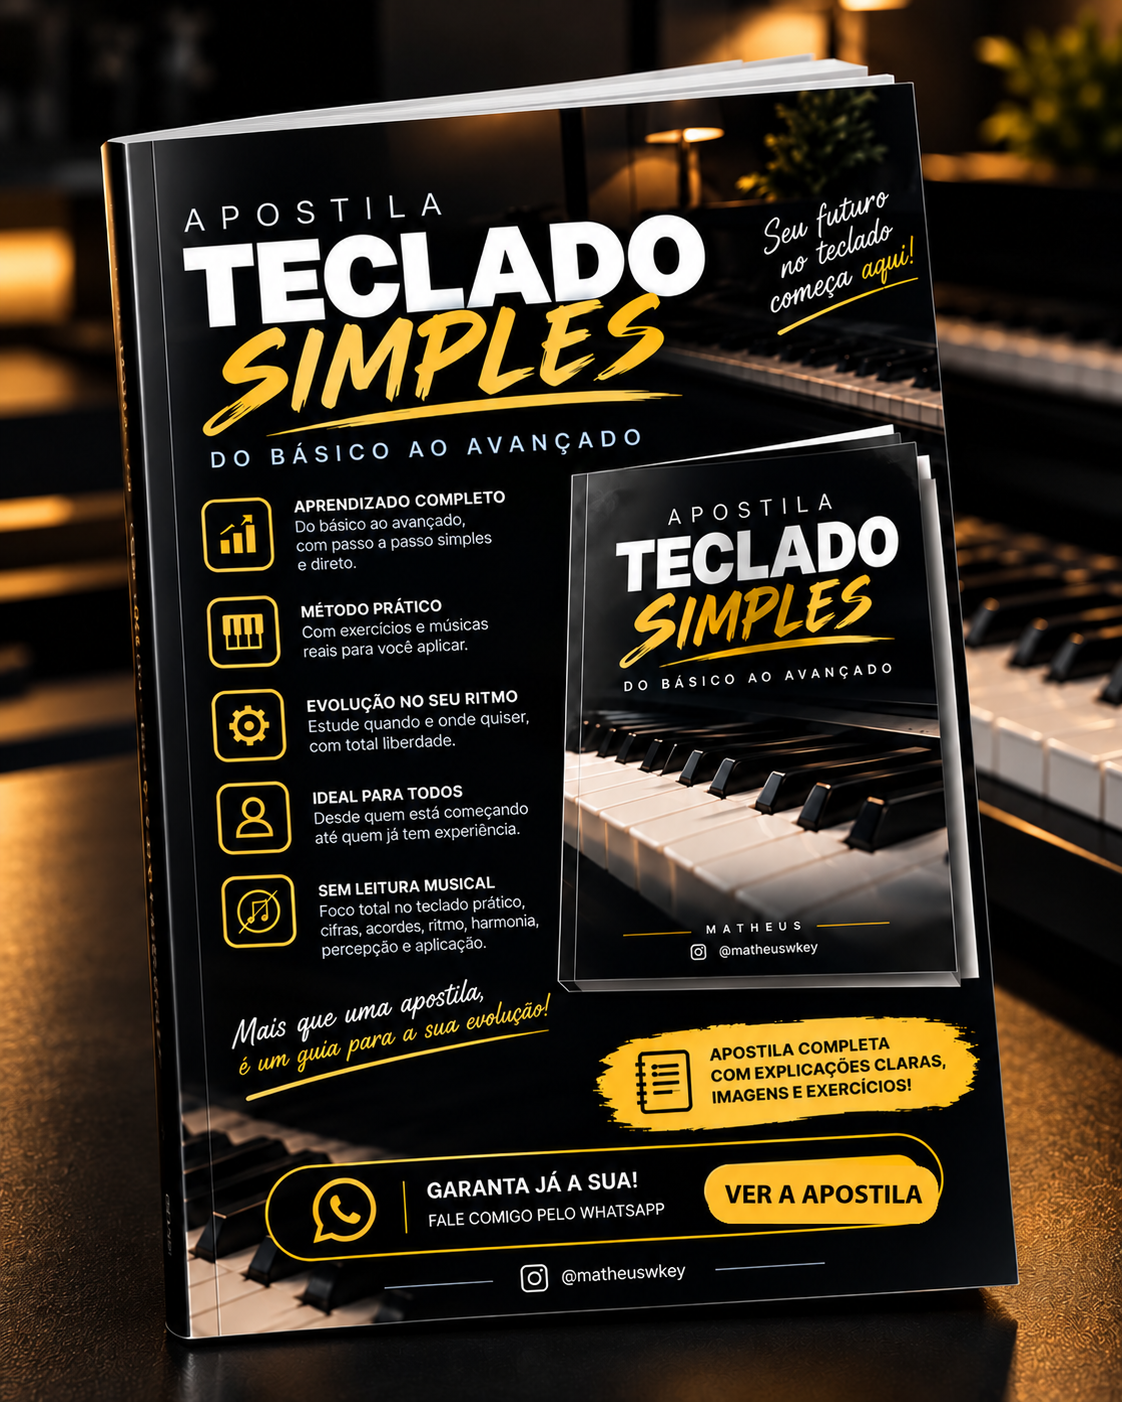
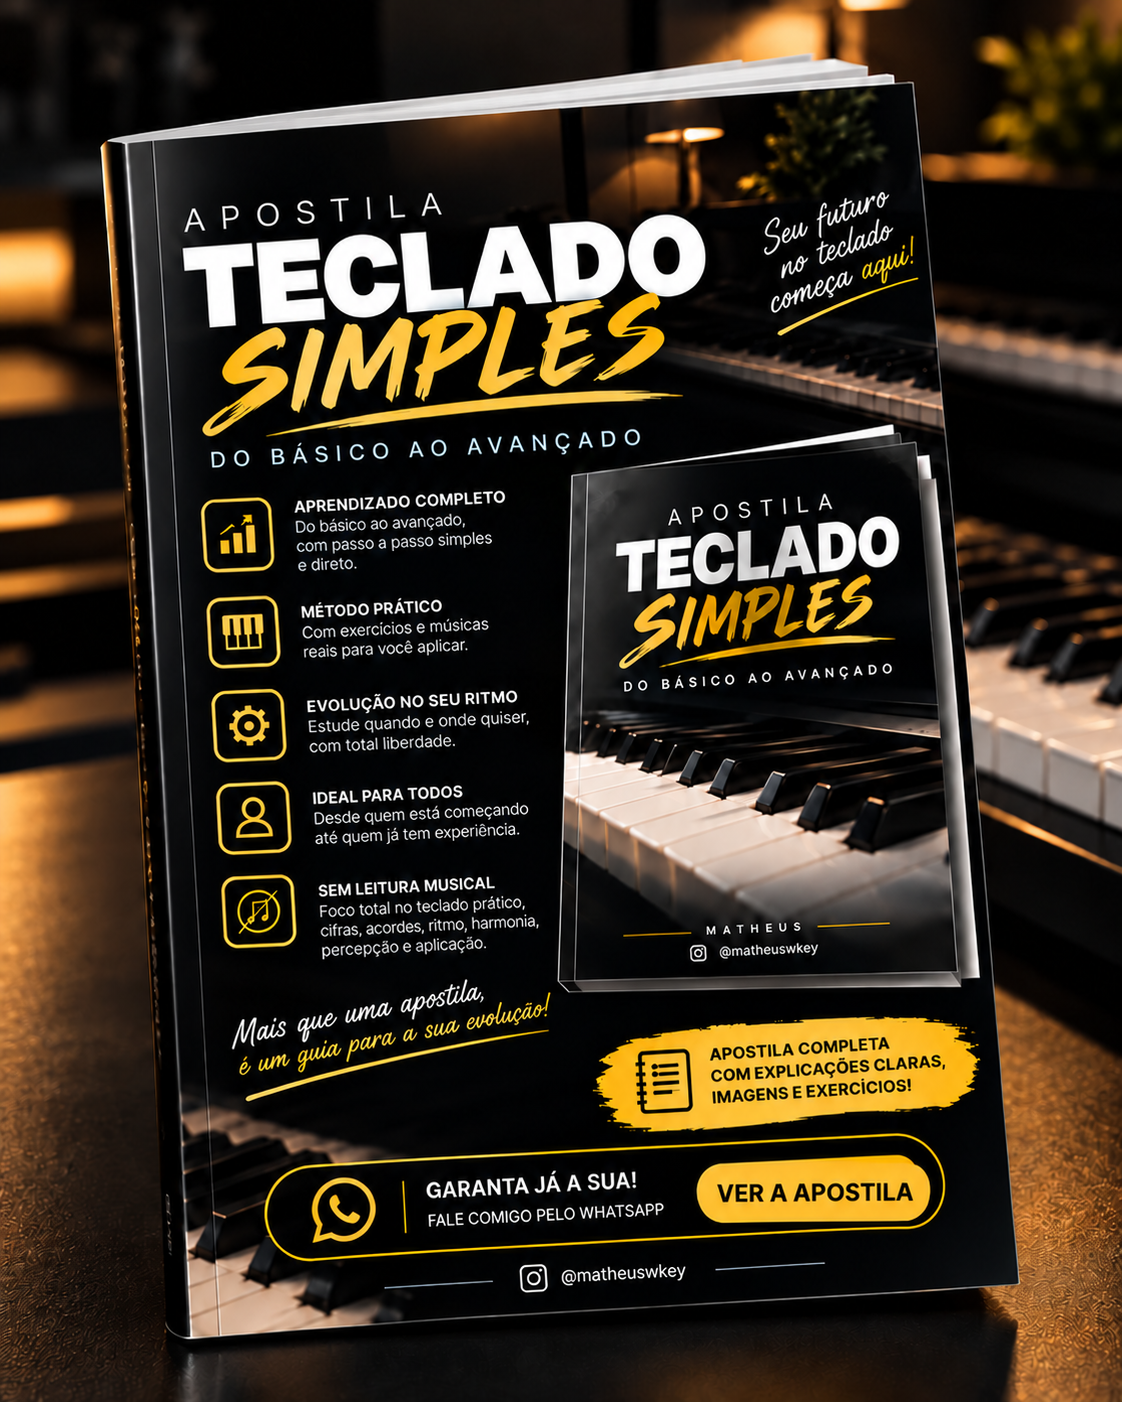
Show apostille tab on mobile and align mockup button

diff --git a/index.html b/index.html
@@ -10,7 +10,7 @@
 :root{color-scheme:dark;--bg:#111313;--surface:#1a1d1c;--text:#f5f4ef;--muted:#b8bdb7;--accent:#efb58a;--line:#343936;--radius:20px}
 *{box-sizing:border-box}html{scroll-behavior:smooth;scroll-padding-top:92px}body{margin:0;background:var(--bg);color:var(--text);font-family:system-ui,-apple-system,BlinkMacSystemFont,"Segoe UI",sans-serif;line-height:1.6;-webkit-font-smoothing:antialiased}a{color:inherit;text-decoration:none}button{font:inherit}img{display:block;max-width:100%}h1,h2,h3,p{margin:0}h1,h2,h3{line-height:1.12}a:focus-visible,summary:focus-visible,button:focus-visible{outline:3px solid var(--accent);outline-offset:5px}.wrap{width:min(100% - 40px,1120px);margin-inline:auto}.skip{position:fixed;top:-100px;left:20px;padding:12px;background:var(--accent);color:#111;z-index:200}.skip:focus{top:10px}.header{position:sticky;top:0;z-index:30;background:rgba(17,19,19,.95);border-bottom:1px solid var(--line);backdrop-filter:blur(14px)}.nav{min-height:74px;display:flex;align-items:center;justify-content:space-between;gap:16px}.brand{font-weight:800;letter-spacing:-.04em;font-size:21px;line-height:1.1}.brand span{color:var(--accent)}.brand small{display:block;font-size:10px;letter-spacing:.22em;font-weight:500;margin-top:6px;color:var(--muted)}.navlinks{display:flex;align-items:center;gap:28px;font-size:14px}.navlinks>a:not(.nav-cta){color:var(--muted)}.nav-cta{border:1px solid #7e6452;border-radius:100px;padding:10px 18px;min-height:44px;display:inline-flex;align-items:center}.hero{padding:38px 0 54px}.hero-grid{display:grid;grid-template-columns:1.1fr 1fr;gap:64px;align-items:center}.eyebrow{color:var(--accent);font-size:12px;font-weight:700;letter-spacing:.15em;text-transform:uppercase}.availability{display:inline-flex;align-items:center;gap:8px;font-size:12px;border:1px solid var(--line);border-radius:100px;padding:7px 12px;color:var(--muted);margin-bottom:24px}.availability svg{width:15px;height:15px;color:var(--accent)}h1{font-size:clamp(42px,5.7vw,72px);letter-spacing:-.06em;font-weight:650}h1 em{color:var(--accent);font-family:Georgia,serif;font-weight:400;letter-spacing:-.055em}.lead{font-size:17px;color:var(--muted);margin:24px 0;max-width:470px}.actions{display:flex;flex-wrap:wrap;gap:12px}.btn{display:inline-flex;align-items:center;justify-content:center;gap:10px;min-height:52px;padding:13px 22px;border-radius:12px;background:var(--accent);color:#21170f;font-size:15px;font-weight:700;text-align:center;border:1px solid transparent;transition:background .2s,transform .2s}.btn svg{width:20px;height:20px;flex:none}.btn:hover{background:#f7c9a5;transform:translateY(-2px)}.btn.secondary{background:transparent;border-color:var(--line);color:var(--text)}.btn.secondary:hover{background:var(--surface)}.hero-note{font-size:12px;color:var(--muted);margin-top:18px}.portrait{position:relative;border-radius:24px;overflow:hidden;background:#080909;aspect-ratio:4/4.7;border:1px solid var(--line)}.portrait img{width:100%;height:100%;object-fit:cover;object-position:center top}.portrait:after{content:"";position:absolute;inset:50% 0 0;background:linear-gradient(transparent,rgba(0,0,0,.96))}.portrait-caption{position:absolute;z-index:1;bottom:25px;left:25px;right:25px}.portrait-caption strong{display:block;font-size:25px;letter-spacing:-.04em}.portrait-caption span{font-size:13px;color:#c5c7c2}.portrait-tag{position:absolute;top:18px;right:18px;background:#161817d9;border:1px solid #ffffff26;border-radius:100px;padding:6px 12px;font-size:11px}.strip{border-block:1px solid var(--line);background:#181b19}.strip-inner{display:flex;justify-content:space-between;gap:20px;padding-block:20px;font-size:13px;color:var(--muted)}.strip strong{color:var(--text);font-weight:500}.section{padding:88px 0}.section-heading{display:grid;grid-template-columns:1fr .8fr;gap:70px;align-items:end;margin-bottom:32px}h2{font-size:clamp(32px,4.1vw,48px);letter-spacing:-.05em;font-weight:600;margin-top:13px}h2 em{font-family:Georgia,serif;color:var(--accent);font-weight:400}.section-heading p{color:var(--muted);font-size:16px}.method-grid{display:grid;grid-template-columns:repeat(3,1fr);gap:14px}.method-card{padding:25px;border:1px solid var(--line);border-radius:var(--radius);background:var(--surface)}.number{display:block;font-size:12px;color:var(--accent);margin-bottom:24px;font-variant-numeric:tabular-nums}.method-card h3{font-size:20px;letter-spacing:-.025em;margin-bottom:12px}.method-card p{font-size:15px;color:var(--muted)}.experience{background:#eaece5;color:#202620}.experience .eyebrow{color:#765135}.experience .section-heading p{color:#515b51}.experience h2 em{color:#855632}.experience-grid{display:grid;grid-template-columns:repeat(3,1fr);gap:24px}.experience-item{border-top:1px solid #b8c0b5;padding-top:24px}.experience-item .number{color:#765135;margin-bottom:16px}.experience-item h3{font-size:23px;letter-spacing:-.04em;margin-bottom:10px}.experience-item p{font-size:15px;color:#515b51}.quote{margin:40px 0 0;padding:24px 0 0;border-top:1px solid #b8c0b5;font-family:Georgia,serif;font-style:italic;font-size:clamp(22px,3vw,30px);line-height:1.4;max-width:880px}.quote footer{font-family:system-ui,sans-serif;font-style:normal;font-size:12px;margin-top:14px;color:#515b51}.path{display:grid;grid-template-columns:.9fr 1.1fr;gap:90px}.path-intro p{color:var(--muted);margin-top:22px;font-size:16px}.steps{list-style:none;padding:0;margin:0}.step{display:grid;grid-template-columns:44px 1fr;gap:18px;padding:25px 0;border-bottom:1px solid var(--line)}.step:first-child{padding-top:0}.step .number{display:grid;place-items:center;width:40px;height:40px;border:1px solid var(--line);border-radius:50%;margin:0}.step h3{font-size:20px;letter-spacing:-.03em;margin-bottom:9px}.step p{color:var(--muted);font-size:15px}.contact{padding:0 0 64px}.contact-panel{border:1px solid #70543e;background:radial-gradient(ellipse at 90% 0,#3c3026 0,transparent 70%),#1c201d;border-radius:28px;padding:56px;display:grid;grid-template-columns:1fr .7fr;gap:50px;align-items:center}.contact-panel h2{font-size:clamp(32px,4vw,48px)}.contact-panel p{color:var(--muted);font-size:16px;margin-top:18px;max-width:510px}.contact-actions{display:flex;flex-direction:column;gap:14px;text-align:center}.contact-actions small{font-size:13px;color:var(--muted)}.footer{border-top:1px solid var(--line);padding:28px 0}.footer-inner{display:flex;justify-content:space-between;gap:20px;align-items:center}.footer p{font-size:12px;color:var(--muted)}.dock{position:fixed;bottom:0;left:0;right:0;z-index:40;background:#111313f5;backdrop-filter:blur(16px);padding:10px 20px calc(10px + env(safe-area-inset-bottom));border-top:1px solid var(--line);display:none}.dock .btn{width:100%}.dock[hidden]{display:none}.section,.contact{scroll-margin-top:10px}
 @media(min-width:760px){.dock{left:auto;right:24px;bottom:24px;border:1px solid var(--line);border-radius:18px;padding:8px}.dock:not([hidden]){display:block}}
-@media(max-width:759px){.wrap{width:calc(100% - 40px)}.nav{min-height:68px}.navlinks{gap:0}.navlinks>a:not(.nav-cta){display:none}.brand{font-size:19px}.nav-cta{font-size:12px;padding:10px 14px}.hero{padding:28px 0 38px}.hero-grid{grid-template-columns:1fr;gap:28px}.hero-text{order:0}.availability{margin-bottom:20px}h1{font-size:clamp(39px,10.8vw,58px);line-height:1.08}.lead{font-size:16px;line-height:1.65;margin:18px 0 22px}.actions{display:grid;grid-template-columns:1fr}.actions .secondary{min-height:44px;padding:9px 15px}.hero-note{margin-top:14px}.portrait{aspect-ratio:1.35;max-height:330px}.portrait img{object-position:center 29%}.portrait-caption{bottom:20px;left:20px}.portrait-caption strong{font-size:22px}.strip-inner{display:grid;grid-template-columns:1fr 1fr;gap:12px;padding-block:20px;font-size:12px}.strip-inner span{display:flex;gap:8px;align-items:center}.strip-inner span:before{content:"";width:4px;height:4px;flex:none;background:var(--accent);border-radius:50%}.section{padding:54px 0}.section-heading{grid-template-columns:1fr;gap:20px;margin-bottom:26px}h2{font-size:34px;line-height:1.13}.method-grid{grid-template-columns:1fr;gap:12px}.method-card{padding:22px;display:grid;grid-template-columns:28px 1fr;column-gap:14px}.method-card .number{grid-row:1/3;margin:3px 0 0}.method-card h3{font-size:19px;margin-bottom:9px}.method-card p{grid-column:2;font-size:15px}.experience-grid{grid-template-columns:1fr;gap:26px}.experience-item{padding-top:20px}.experience-item .number{margin-bottom:10px}.experience-item h3{font-size:22px}.quote{margin-top:28px;font-size:24px}.path{grid-template-columns:1fr;gap:30px}.step{gap:14px}.contact{padding-bottom:40px}.contact-panel{padding:28px 22px;grid-template-columns:1fr;gap:26px;border-radius:22px}.contact-panel h2{font-size:34px}.contact-actions .btn{padding-inline:12px;font-size:14px}.footer{padding-bottom:110px}.footer-inner{align-items:start;flex-direction:column;gap:14px}.dock:not([hidden]){display:block}}
+@media(max-width:759px){.wrap{width:calc(100% - 40px)}.nav{min-height:68px}.navlinks{gap:0}.navlinks>a:not(.nav-cta):not(.nav-book){display:none}.brand{font-size:19px}.nav-cta{font-size:12px;padding:10px 14px}.hero{padding:28px 0 38px}.hero-grid{grid-template-columns:1fr;gap:28px}.hero-text{order:0}.availability{margin-bottom:20px}h1{font-size:clamp(39px,10.8vw,58px);line-height:1.08}.lead{font-size:16px;line-height:1.65;margin:18px 0 22px}.actions{display:grid;grid-template-columns:1fr}.actions .secondary{min-height:44px;padding:9px 15px}.hero-note{margin-top:14px}.portrait{aspect-ratio:1.35;max-height:330px}.portrait img{object-position:center 29%}.portrait-caption{bottom:20px;left:20px}.portrait-caption strong{font-size:22px}.strip-inner{display:grid;grid-template-columns:1fr 1fr;gap:12px;padding-block:20px;font-size:12px}.strip-inner span{display:flex;gap:8px;align-items:center}.strip-inner span:before{content:"";width:4px;height:4px;flex:none;background:var(--accent);border-radius:50%}.section{padding:54px 0}.section-heading{grid-template-columns:1fr;gap:20px;margin-bottom:26px}h2{font-size:34px;line-height:1.13}.method-grid{grid-template-columns:1fr;gap:12px}.method-card{padding:22px;display:grid;grid-template-columns:28px 1fr;column-gap:14px}.method-card .number{grid-row:1/3;margin:3px 0 0}.method-card h3{font-size:19px;margin-bottom:9px}.method-card p{grid-column:2;font-size:15px}.experience-grid{grid-template-columns:1fr;gap:26px}.experience-item{padding-top:20px}.experience-item .number{margin-bottom:10px}.experience-item h3{font-size:22px}.quote{margin-top:28px;font-size:24px}.path{grid-template-columns:1fr;gap:30px}.step{gap:14px}.contact{padding-bottom:40px}.contact-panel{padding:28px 22px;grid-template-columns:1fr;gap:26px;border-radius:22px}.contact-panel h2{font-size:34px}.contact-actions .btn{padding-inline:12px;font-size:14px}.footer{padding-bottom:110px}.footer-inner{align-items:start;flex-direction:column;gap:14px}.dock:not([hidden]){display:block}}
 @media(max-width:359px){.wrap{width:calc(100% - 32px)}h1{font-size:38px}.strip-inner{grid-template-columns:1fr}.contact-panel h2,h2{font-size:30px}.dock{padding-inline:16px}.method-card{padding:18px}}
 @media(prefers-reduced-motion:reduce){html{scroll-behavior:auto}*,*:before,*:after{transition:none!important;animation:none!important}}
 @media(hover:none){.btn:hover{transform:none}}
